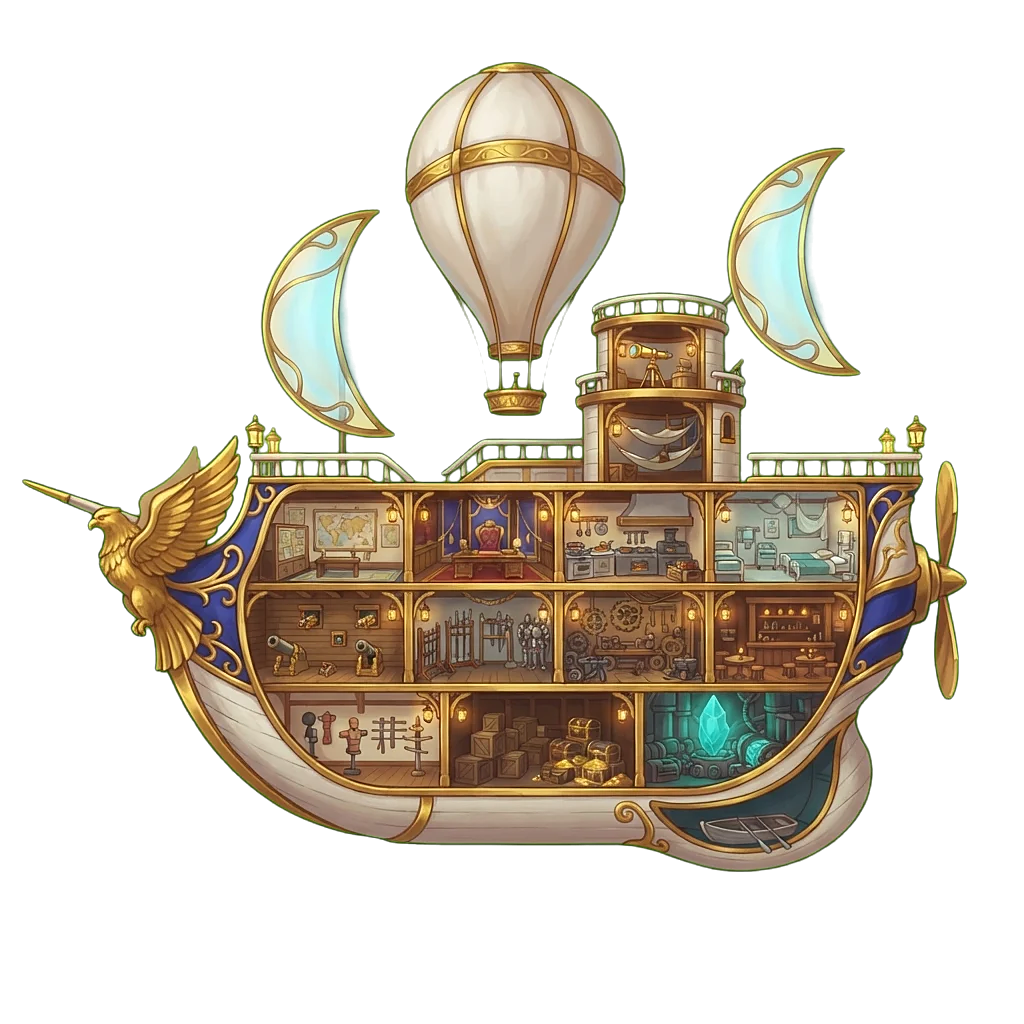
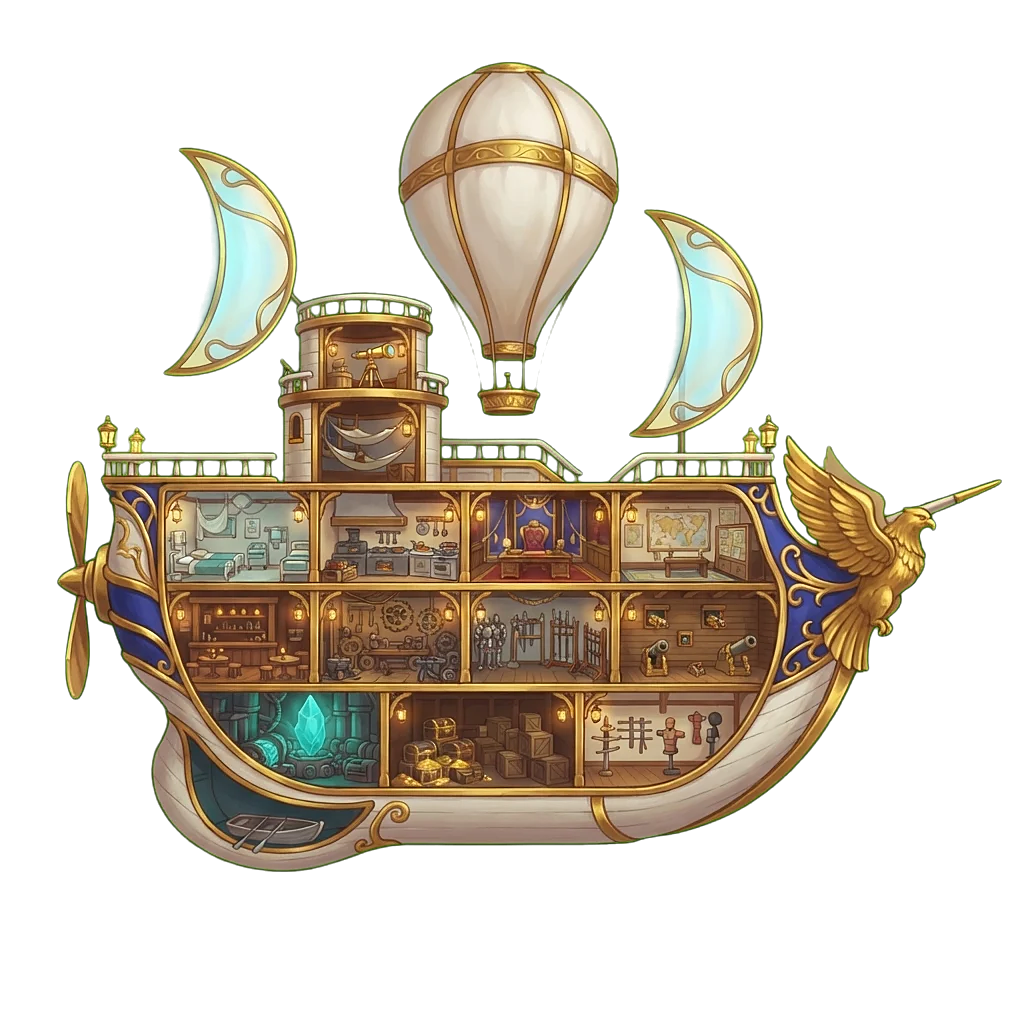
Осмотр: разрез «Ласточки», «Буревестника» и «Сокола» отзеркален носом вправо, как маленький корабль главной (рамки комнат, корпуса и пузыря — по зеркалу); небо без шва: один неподвижный узел с повторяющейся текстурой и бегущим окном вместо двух копий со сглаженными краями, водопад и мельницы едут в 

diff --git a/crates/game/src/menu.rs b/crates/game/src/menu.rs
@@ -4,6 +4,7 @@
 //! ресурсы пока живут только в памяти: сохранения и экономика на сервере будут позже.
 
 use battle_core::Outcome;
+use bevy::image::{ImageAddressMode, ImageLoaderSettings, ImageSampler, ImageSamplerDescriptor};
 use bevy::prelude::*;
 use serde::{Deserialize, Serialize};
 
@@ -1028,6 +1029,37 @@ fn spawn_sky(
 /// Панорама неба за кораблём (два куска встык едут влево) и стайка птиц.
 fn backdrop(root: &mut ChildSpawnerCommands, assets: &AssetServer, view: &crate::ship::Scene) {
     let sky = &view.backdrop;
+    // Небо — один неподвижный узел на весь экран: едет окно в текстуре, а текстура повторяется
+    // по ширине. Краёв картинки на экране нет, поэтому нет и шва: кольцо замыкает сам сэмплер.
+    let image = assets
+        .load_builder()
+        .with_settings(|s: &mut ImageLoaderSettings| {
+            s.sampler = ImageSampler::Descriptor(ImageSamplerDescriptor {
+                address_mode_u: ImageAddressMode::Repeat,
+                ..ImageSamplerDescriptor::linear()
+            });
+        })
+        .load(sky.image.clone());
+    root.spawn((
+        SkyScroll {
+            width: sky.width,
+            speed: sky.speed,
+        },
+        Node {
+            position_type: PositionType::Absolute,
+            left: px(0),
+            top: px(0),
+            width: percent(100),
+            height: percent(100),
+            ..default()
+        },
+        ImageNode {
+            rect: Some(Rect::new(0.0, 0.0, 1.0, 1.0)),
+            ..ImageNode::new(image)
+        },
+        Pickable::IGNORE,
+    ));
+    // Водопад и мельницы — в двух прозрачных слоях шириной в панораму: едут вместе с небом.
     for copy in 0..2 {
         root.spawn((
             Backdrop {
@@ -1039,12 +1071,10 @@ fn backdrop(root: &mut ChildSpawnerCommands, assets: &AssetServer, view: &crate:
                 position_type: PositionType::Absolute,
                 left: px(0),
                 top: px(0),
-                // На 2 px шире шага: копии заходят друг на друга, без светлой нити на стыке.
-                width: px(sky.width + 2.0),
+                width: px(sky.width),
                 height: percent(100),
                 ..default()
             },
-            ImageNode::new(assets.load(sky.image.clone())),
             UiTransform::default(),
             Pickable::IGNORE,
         ))
@@ -1114,6 +1144,13 @@ fn backdrop(root: &mut ChildSpawnerCommands, assets: &AssetServer, view: &crate:
     }
 }
 
+/// Небо: окно в повторяющейся текстуре панорамы (px текстуры = логический px).
+#[derive(Component)]
+struct SkyScroll {
+    width: f32,
+    speed: f32,
+}
+
 #[derive(Component)]
 struct Backdrop {
     copy: f32,
@@ -1143,9 +1180,16 @@ fn scroll_backdrop(
     mut skies: Query<(&Backdrop, &mut UiTransform), (Without<Bird>, Without<MillSails>)>,
     mut birds: Query<(&Bird, &mut UiTransform), (Without<Backdrop>, Without<MillSails>)>,
     mut mills: Query<(&MillSails, &mut UiTransform), (Without<Backdrop>, Without<Bird>)>,
-    mut water: Query<&mut ImageNode, With<FallingWater>>,
+    mut water: Query<&mut ImageNode, (With<FallingWater>, Without<SkyScroll>)>,
+    mut sky_view: Query<(&SkyScroll, &ComputedNode, &mut ImageNode), Without<FallingWater>>,
 ) {
     let t = time.elapsed_secs();
+    for (sky, node, mut image) in &mut sky_view {
+        // Окно размером с узел в логических px; высота панорамы равна высоте экрана.
+        let size = node.size() * node.inverse_scale_factor();
+        let x = (t * sky.speed).rem_euclid(sky.width);
+        image.rect = Some(Rect::new(x, 0.0, x + size.x, size.y));
+    }
     for (sky, mut transform) in &mut skies {
         let x = -(t * sky.speed).rem_euclid(sky.width) + sky.copy * sky.width;
         transform.translation = Val2::px(x, 0.0);

diff --git a/tools/sprites/ships.py b/tools/sprites/ships.py
@@ -45,6 +45,11 @@ def key_green(img):
     return Image.fromarray((out * 255).clip(0, 255).astype(np.uint8), "RGBA")
 
 
+# Эти корабли нарисованы носом влево, а на главной корабль летит вправо: разрез зеркалится,
+# чтобы на осмотре был тот же корабль, что и на главной. Рамки в data/ship.json — уже по зеркалу.
+FLIP = {"lastochka", "petrel", "falcon"}
+
+
 def cut(ship):
     src = ART / ship
     dst = OUT / ship
@@ -54,6 +59,8 @@ def cut(ship):
             print(f"{ship}: нет {name}.png — пропускаю")
             continue
         img = key_green(Image.open(src / f"{name}.png"))
+        if ship in FLIP:
+            img = img.transpose(Image.Transpose.FLIP_LEFT_RIGHT)
         img = img.resize((1024, 1024), Image.Resampling.LANCZOS) if img.size != (1024, 1024) else img
         rgb = img.convert("RGB").filter(ImageFilter.UnsharpMask(1.2, 50, 2))
         rgb.putalpha(img.getchannel("A"))
